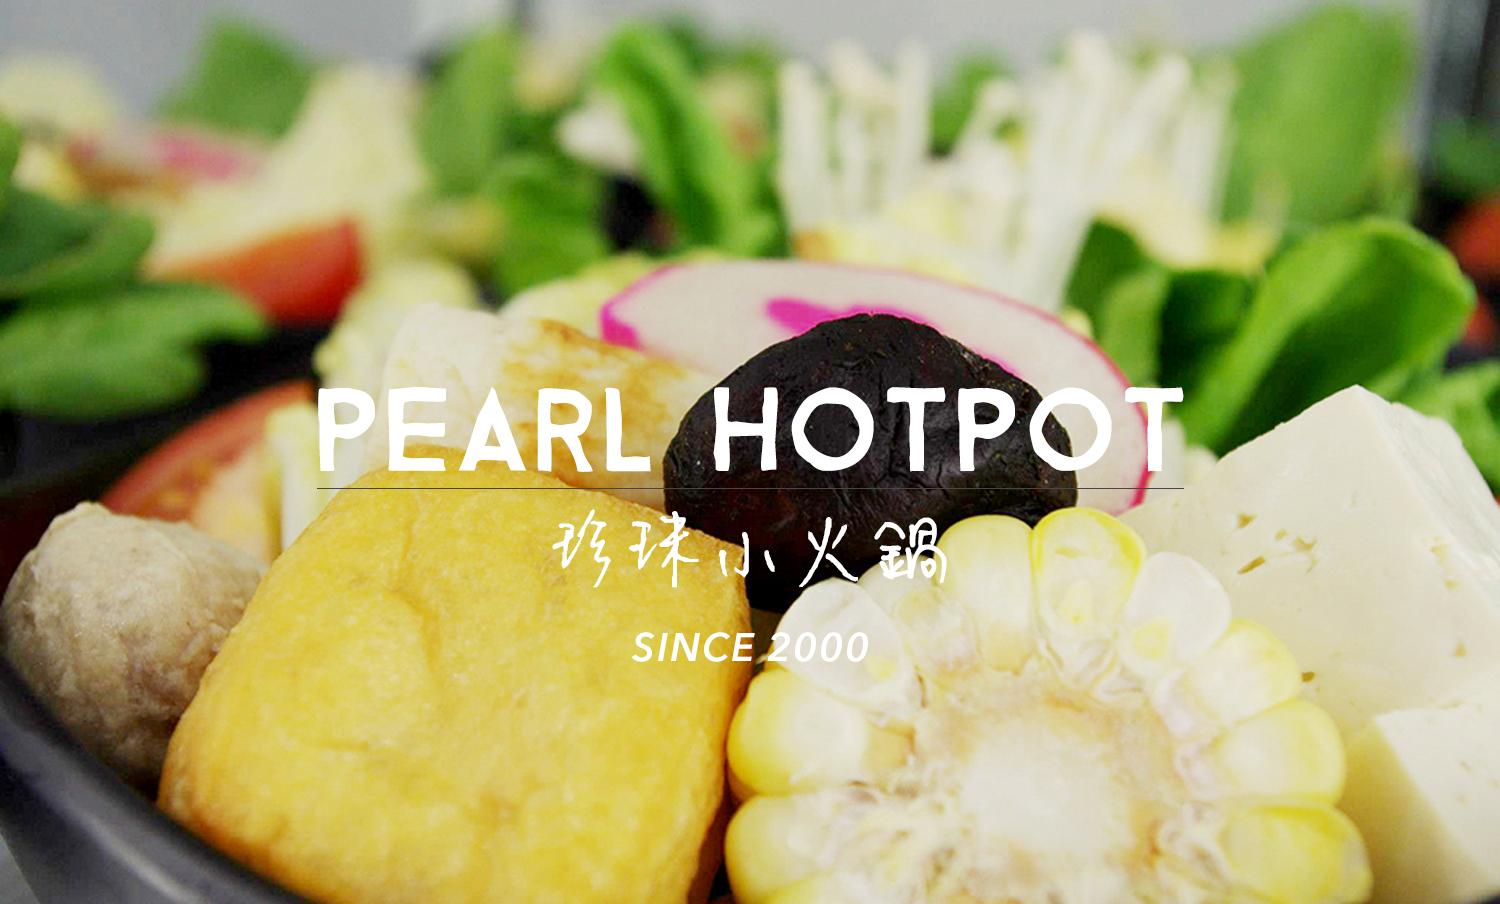
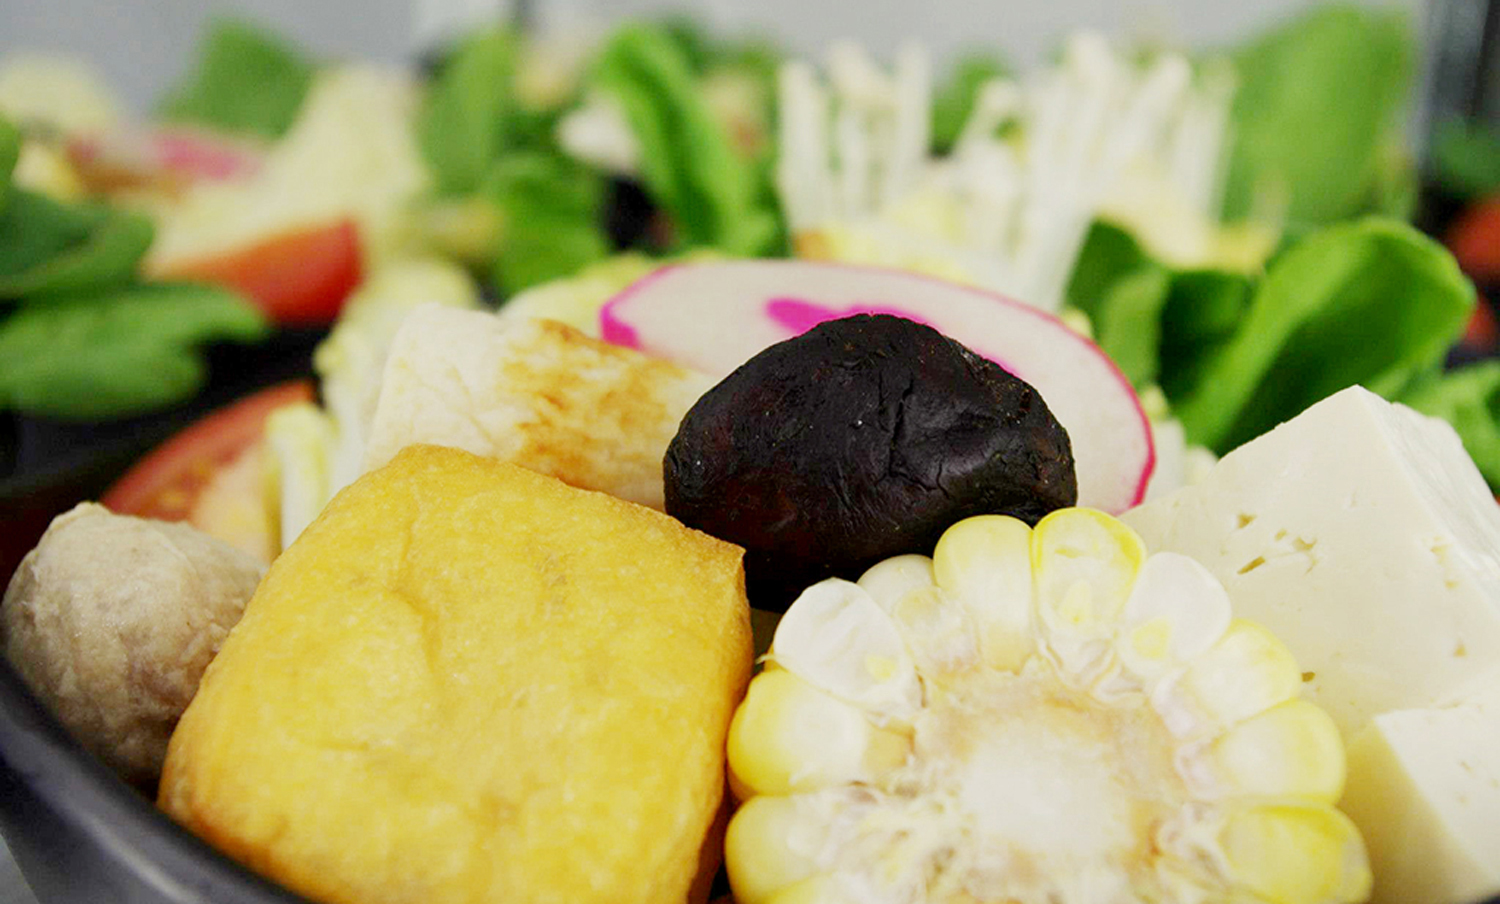
Commit 2
Code Cleaning

diff --git a/stylesheet.css b/stylesheet.css
@@ -6,6 +6,7 @@ body{
   font-size: 10px;
   text-align: center;
   overflow-x: hidden;
+  margin: 0px;
 }
 
 p{
@@ -14,16 +15,25 @@ p{
 
 /* Layout */
 
+.pearl{
+  width: 20px;
+  float: left;
+}
+
 .banner{
   width: 100%;
-  height: 75vh;
+  height: 30vh;
   background-image: url('links/welcome.jpg');
   background-size: cover;
   background-repeat: no-repeat;
+  margin: 0px;
 }
 
-.logo{
+ul .menu li{
+  display: inline-block;
+  margin: 0 auto;
   width: 100%;
+  list-style: none;
 }
 
 .heading-middle{
@@ -60,144 +70,6 @@ p{
   font-weight: 100;
   font-size: 20px;
   line-height: 30px;
-}
-
-.main-menu{
-  display: flex
-}
-
-.combo{
-  background-color: blue;
-  list-style: none;
-  display: flex;
-  flex-direction: column;
-  flex: 50%;
-  flex-wrap: wrap;
-}
-
-.first {
-  display: inline-block;
-  width: 200px;
-  height: 300px;
-  float: left;
-}
-
-.first p{
-  text-align: left;
-  font-size: 13px;
-  color: grey;
-  line-height: 15px;
-}
-
-.main li{
-  list-style: none;
-  line-height: 20px;
-}
-
-.main2 {
-  display: inline-block;
-  text-align: left;
-  float: right;
-  font-weight: lighter;
-  width: 400px;
-}
-
-.main2 li {
-  list-style: none;
-  line-height: 20px;
-}
-
-.base {
-  display: inline-block;
-  width: 200px;
-  float: left;
-}
-
-.base h3 {
-  text-align: left;
-  background-color: lightgrey;
-  padding: 10px;
-  margin-top: 0;
-  padding-bottom: 10px;
-}
-
-.base p{
-  text-align: left;
-  font-size: 13px;
-  color: grey;
-  line-height: 15px;
-}
-.soup{
-  float: left;
-  display: inline-block;
-  margin: 0 auto;
-  font-weight: lighter;
-  width: 400px;
-  padding-left: 20px;
-  text-align: left;
-  margin-bottom: 50px;
-}
-
-.soup li{
-  list-style: none;
-  line-height: 20px;
-}
-.second {
-  display: inline-block;
-  width: 200px;
-  float: left;
-  font-weight: lighter;
-}
-
-.second h3 {
-  text-align: left;
-  background-color: lightgrey;
-  padding: 10px;
-  margin-top: 0;
-  padding-bottom: 10px;
-  font-weight: lighter;  
-}
-
-.second p{
-  text-align: left;
-  font-size: 13px;
-  color: grey;
-  line-height: 15px;
-  font-weight: lighter;  
-}
-
-.sides{
-  display: inline-block;
-  margin: 0 auto;
-  margin-left: 20px;
-  /*list-style: none;*/
-  width: 400px;
-  text-align: left;
-  margin-bottom: 50px;
-  font-weight: lighter;  
-}
-.sides li{
-  list-style: none;
-  line-height: 20px;
-}
-
-.sides2 {
-  text-align: left;
-  float: right;
-  width: 400px;
-  font-weight: lighter;
-}
-
-.sides2 li {
-  list-style: none;
-  line-height: 20px;
-}
-.addition{
-  display: inline-block;
-  margin: 0 auto;
-  list-style: none;
-  width: 824px;
-  margin-bottom: 60px;
 }
 
 .social{
@@ -262,13 +134,13 @@ p{
     max-width: 720px;
   }
 
-.banner{
-  width: 100%;
-  height: 100vh;
-  background-image: url('links/welcome.jpg');
-  background-size: cover;
-  background-repeat: no-repeat;
-}
+  .banner{
+    width: 100%;
+    height: 50vh;
+    background-image: url('links/welcome.jpg');
+    background-size: cover;
+    background-repeat: no-repeat;
+  }
 
   .heading-middle{
     font-size: 3rem;
@@ -281,8 +153,12 @@ p{
 
 @media screen and (min-width: 1200px) {
 
-  body{
-
+  .banner{
+    width: 100%;
+    height: 100vh;
+    background-image: url('links/welcome.jpg');
+    background-size: cover;
+    background-repeat: no-repeat;
   }
 
 

diff --git a/index.html b/index.html
@@ -7,41 +7,42 @@
 </head> 
 
 <body>
- <div class="banner"></div>
-
- <p><h3 class="heading-middle">Natural Ingredients, Fresh & Healthy, All year long.</h3></p>
- 
- <h3>Menu</h3>
-</div> 
 
 
+<div class="banner"></div>
 
-<!-- Can be for second page?-->
-  <!--<div class="content">
-    <article>
-      <p>At Pearl Hot Pot, there is hot pot for a single person, with different ingredients for all kinds of soup. It's' matched with a variety of sauces to go with the authentic taiwan-style hot pot. Customers can select his favorite combo independently and sit at the same table with family members or friends while having their individual pots. </p>
-      <img src="links/strip.jpg" alt="break" width="1024"/>   
-    </article>
-  </div>-->
-  <!-- Can be for second page?-->
+ <h3 class="heading-middle">Natural Ingredients, Fresh &amp; Healthy, All year long.</h3>
+
+ <ul class="menu">
+    <li>Menu</li>
+    <li>Contact Us</li>
+ </ul>
+
+ <div class="content">
+  <article>
+    <p>At Pearl Hot Pot, there is hot pot for a single person, with different ingredients for all kinds of soup. It's' matched with a variety of sauces to go with the authentic taiwan-style hot pot. Customers can select his favorite combo independently and sit at the same table with family members or friends while having their individual pots. </p>
+    
+    <p>Please visit the full website for our menu.</p>   
+  </article>
+</div>
 
 
 
-  <section class="social">
-    <ul class="connect">
-      <li><a href="http://www.facebook.com/pearlhotpotrestaurant" target="blank"><img src="links/fb.png" alt="Facebook" width="50"></a></li>
-      <li><a href="https://www.google.ca/maps/place/Pearl+Hot+Pot/@49.2187397,-122.9666328,17z/data=!3m1!4b1!4m2!3m1!1s0x548676356dea2ea7:0xdae3a88d2d928d41" target="blank"><img src="links/pin.png" alt="Go to Google Maps" width="50"></a></li>
-      <li><a href="http://www.yelp.ca/biz/pearl-hot-pot-burnaby" target="blank"><img src="links/yelp.png" alt="Yelp" width="50"></a></li>
-      <li><a href="mailto:pearlhotpot@hotmail.com" target="blank"><img src="links/email.png" alt="Email Us" width="50"></a></li>
-    </ul>  
-  </section>
+<section class="social">
+  <ul class="connect">
+    <li><a href="http://www.facebook.com/pearlhotpotrestaurant" target="blank"><img src="links/fb.png" alt="Facebook" width="50"></a></li>
+    <li><a href="https://www.google.ca/maps/place/Pearl+Hot+Pot/@49.2187397,-122.9666328,17z/data=!3m1!4b1!4m2!3m1!1s0x548676356dea2ea7:0xdae3a88d2d928d41" target="blank"><img src="links/pin.png" alt="Go to Google Maps" width="50"></a></li>
+    <li><a href="http://www.yelp.ca/biz/pearl-hot-pot-burnaby" target="blank"><img src="links/yelp.png" alt="Yelp" width="50"></a></li>
+    <li><a href="mailto:pearlhotpot@hotmail.com" target="blank"><img src="links/email.png" alt="Email Us" width="50"></a></li>
+  </ul>  
+</section>
 
-  <footer class="about">
-    <div class="hours">
-      <h3>VISIT US</h3>
-      <p>Mon - Sun: 12pm - 11pm</br></br>Reserve a table: 604.516.0238</br></br>7154 Sperling Ave, Burnaby B.C</p>
-    </div>
-  </footer>
+<footer class="about">
+  <div class="hours">
+    <h3>VISIT US</h3>
+    <p>Mon - Sun: 12pm - 11pm</br></br>Reserve a table: 604.516.0238</br></br>7154 Sperling Ave, Burnaby B.C</p>
+  </div>
+</footer>
 
 </body>
 </html>
